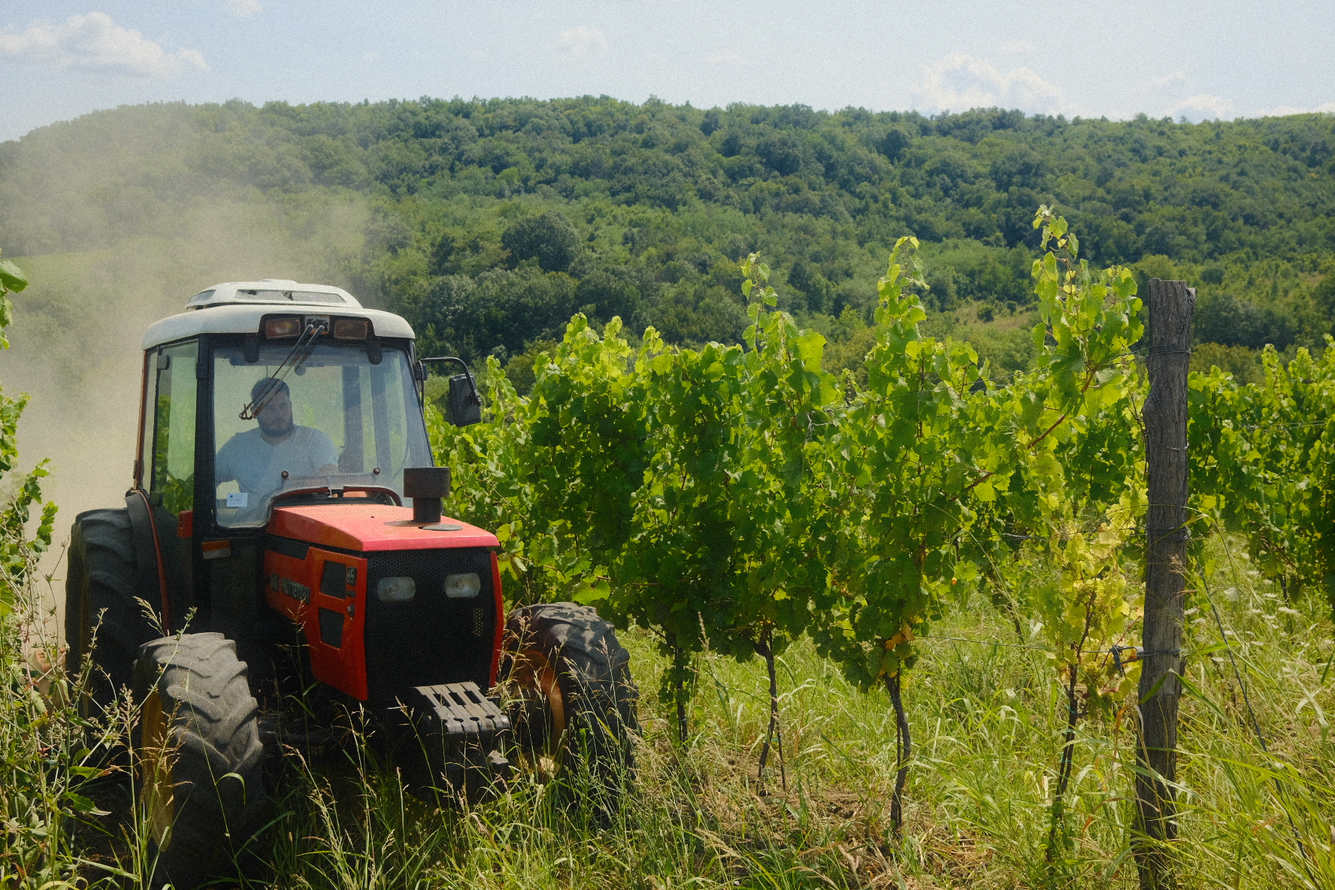
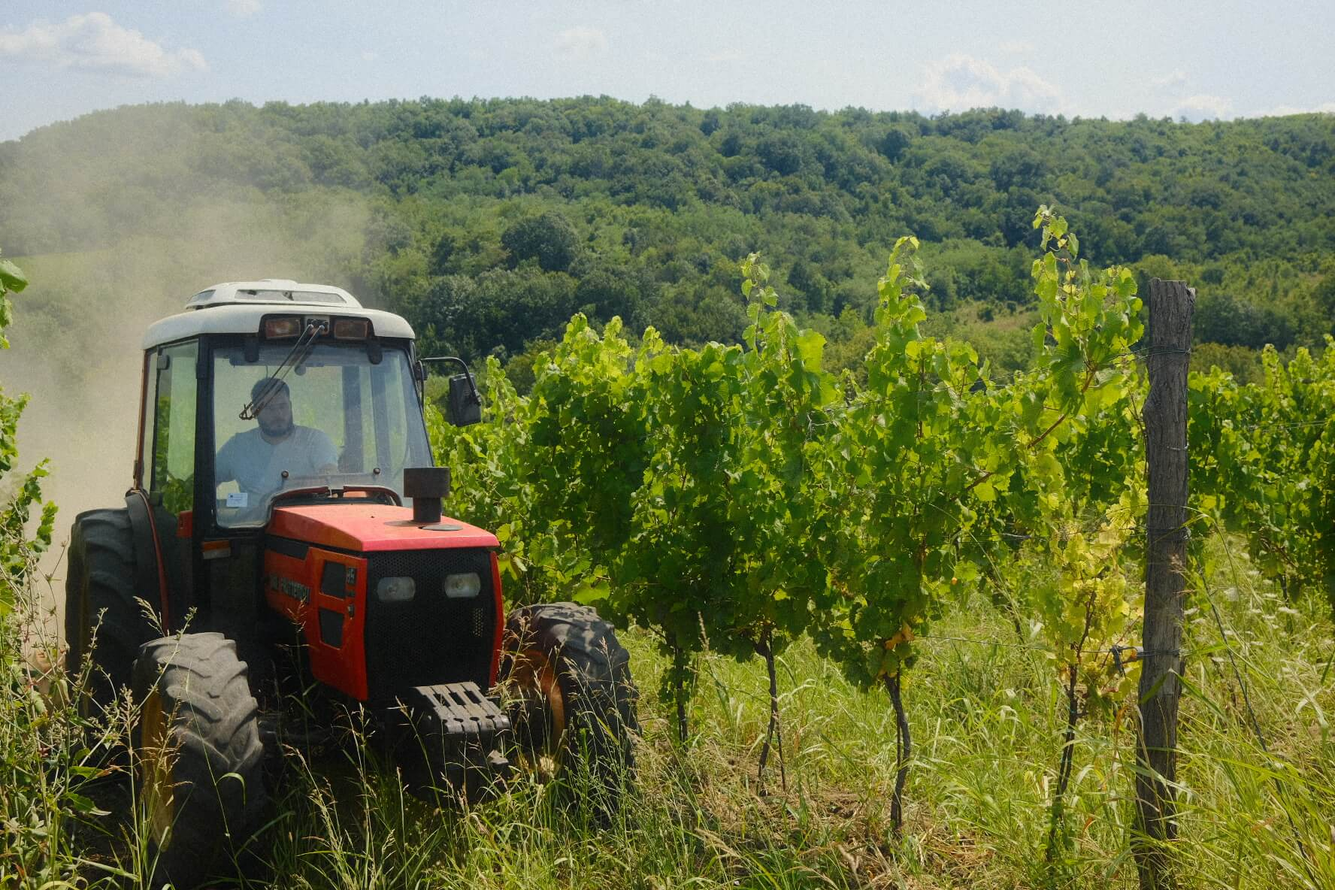
Updated Gallery images css for better image cover

diff --git a/index.html b/index.html
@@ -118,7 +118,7 @@
             </div> <!-- container -->
         </div> <!-- header navbar -->
 
-        <div id="home" class="header_slider slider-active">
+        <div id="home" class="header_slider slider-active" fetchpriority="high">
             <div class="single_slider bg_cover d-flex align-items-center"
                 style="background-image: url(assets/images/slider-1.jpg)">
                 <div class="container">
@@ -267,7 +267,7 @@
 
     <!--====== ABOUT PART START ======-->
 
-    <section id="about" class="about_area pt-120 pb-130">
+    <section id="about" class="about_area pt-120">
         <div class="container">
             <div class="row justify-content-center">
                 <div class="col-lg-6">
@@ -429,7 +429,7 @@
 
     <!--====== GALLERY PART START ======-->
 
-    <section id="gallery" class="gallery_area pt-120 pb-130">
+    <section id="gallery" class="gallery_area pt-120 pb-30">
         <div class="container">
             <div class="row justify-content-center">
                 <div class="col-lg-6">

diff --git a/assets/css/style.css b/assets/css/style.css
@@ -42,6 +42,9 @@ img {
 #gallery img {
   width: 100%;
   height: 650px;
+  object-fit: cover;
+  /* image fills container, cropped if needed */
+  display: block;
 }
 
 #menu img {
